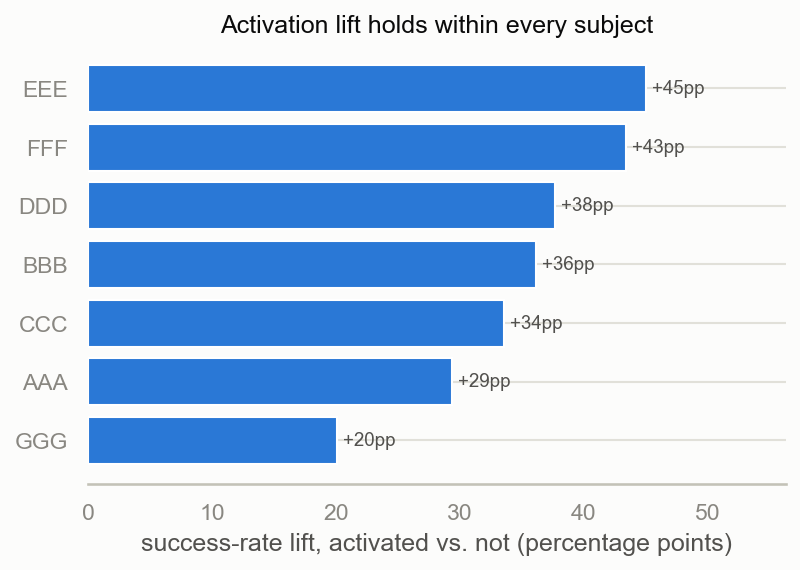
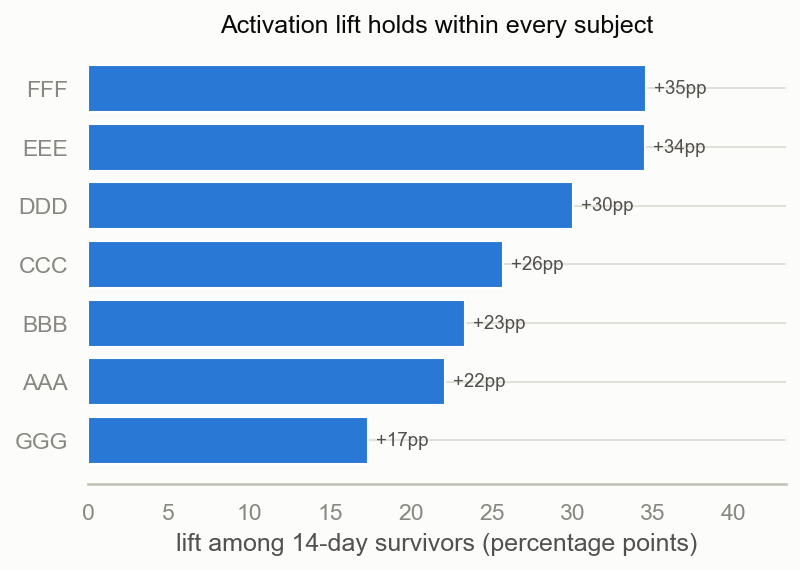
Apply post-launch review fixes: survivor-matched subgroup lifts, joint-confound limitation, clearer guardrail metric name.
- Recompute within-subgroup activation lifts on 14-day survivors so they match the 24.5pp headline
- Add limitation: confounds checked one at a time, not jointly
- Rename Guardrail 1 to "assessment completion rate" and define it against the funnel's yes/no step
- Record both survivor-basis catches in ADR.md

diff --git a/README.md b/README.md
@@ -64,8 +64,8 @@ the noisiest part of the curve, still inside an actionable window.
 **[CON]** Activated enrollments succeed at a rate **24.5 points higher** than non-activated ones
 (62.2% vs. 37.7%, measured only among enrollments that survived past the activation window
 itself, to exclude students who couldn't have activated even if willing). This holds within
-every one of the 7 subjects (+20 to +45pp), every education level, every age band, and every
-course-load tier.
+every one of the 7 subjects (+17 to +35pp, same survivor-matched population), every education
+level, every age band, and every course-load tier.
 
 **[HYP] — correlation, not causation.** More engaged students are very likely also more
 motivated or facing fewer outside barriers — either could independently drive success. This
@@ -103,7 +103,7 @@ directly.
 | Role | Metric | Current value | Guards against |
 |---|---|---|---|
 | **Primary** | Week-2 Activation Rate | 61.7% | — |
-| Guardrail | Assessment submission rate, activated vs. not | 67.7% vs. 32.1% | Activation inflated by low-value clicking |
+| Guardrail | Assessment completion rate (share of available assessments submitted), activated vs. not | 67.7% vs. 32.1% | Activation inflated by low-value clicking |
 | Guardrail | Activation-rate gap by deprivation band | 12.5pp | Average gains masking a widening equity gap |
 | Guardrail | Activated-cohort active rate, week 20+ | ~52–64% | A first-burst-only, unsustained "activation" |
 
@@ -124,6 +124,10 @@ during the rigor pass — it didn't survive an exposure-matched re-test. Recorde
 ## Limitations
 
 - Correlational throughout; the headline finding is not proven causal.
+- Confounds were checked one at a time, not jointly: the activation lift holds within each
+  subject, education level, age band, and course-load tier separately, but no multivariate model
+  was used (that would take, e.g., a logistic regression controlling for all of them at once) —
+  so whether the lift survives with all of them held fixed together is untested.
 - No monetization stage exists in the source data — every "value" claim is a labelled proxy.
 - 22.5% of enrollments belong to a student who appears more than once (not necessarily
   retaking — could be two different subjects) — the same person counted twice, not two

diff --git a/ADR.md b/ADR.md
@@ -189,6 +189,23 @@ Two distinct disagreements, at two different layers:
   layer — **<u>attentive human review during the deliverable walkthrough</u>** — catching something the
   other three structurally couldn't, because none of them were asking "what does this word
   actually mean."
+- **The withdrawal figure never got the survivor-matching fix — caught by the user's review of
+  notebook 05, not by any structural QA layer.** Enrollments that withdrew inside the 14-day
+  window can't activate, so they inflate any activated-vs-not gap. That was corrected for the
+  headline success lift (34.8pp → 24.5pp) but not for the parallel withdrawal-rate gap, which
+  stayed on the full population at 27.7pp. Restricted to 14-day survivors it is **5.8pp** — most
+  of the raw gap was the overlap. It surfaced when the user asked which period the withdrawal
+  figure covered. The rigor pass and independent verification both missed it because both were
+  scoped to the headline claim.
+- **The same fix was also missing from the within-subgroup lifts — found while following up a
+  fresh-context cold-read review.** The reviewer flagged that one quoted range rested on a
+  ~50-person subgroup; checking it showed the lifts by subject, education, age band, first-timer
+  status and credit tier were all on the full population too, quoted right beside the survivor-
+  matched 24.5pp (e.g. subjects +20 to +45pp → +17 to +35pp; age bands +34 to +43pp → +24 to
+  +28pp). Every group stays positive, so the qualitative conclusions held; the magnitudes had been
+  overstated by ~10pp here and ~22pp for withdrawal. Lesson for both: when a correction is applied
+  to a headline number, find every sibling figure computed on the same population and re-derive
+  it on the same basis.
 
 ### What I'd do differently next time
 

diff --git a/EXECUTIVE_SUMMARY.md b/EXECUTIVE_SUMMARY.md
@@ -36,7 +36,7 @@ plausibly both activate and succeed for reasons the data can't fully separate.
 | Role | Metric | Current value |
 |---|---|---|
 | Primary | Week-2 Activation Rate | 61.7% |
-| Guardrail | Assessment submission rate, activated vs. not | 67.7% vs. 32.1% |
+| Guardrail | Assessment completion rate (share of available assessments submitted), activated vs. not | 67.7% vs. 32.1% |
 | Guardrail | Activation-rate gap by deprivation band | 12.5pp |
 | Guardrail | Activated-cohort active rate, week 20+ | ~52–64% |
 
@@ -50,7 +50,9 @@ plausibly both activate and succeed for reasons the data can't fully separate.
 
 ## Limitations
 
-Correlational, not causal. No real monetization data. 22.5% of enrollments belong to a student
+Correlational, not causal. Confounds checked one at a time, not jointly (confirming the lift
+survives all of them at once would take a regression controlling for all of them together). No
+real monetization data. 22.5% of enrollments belong to a student
 who appears more than once, not separate people. One dataset, one platform, 2013–2014.
 
 ## Process
